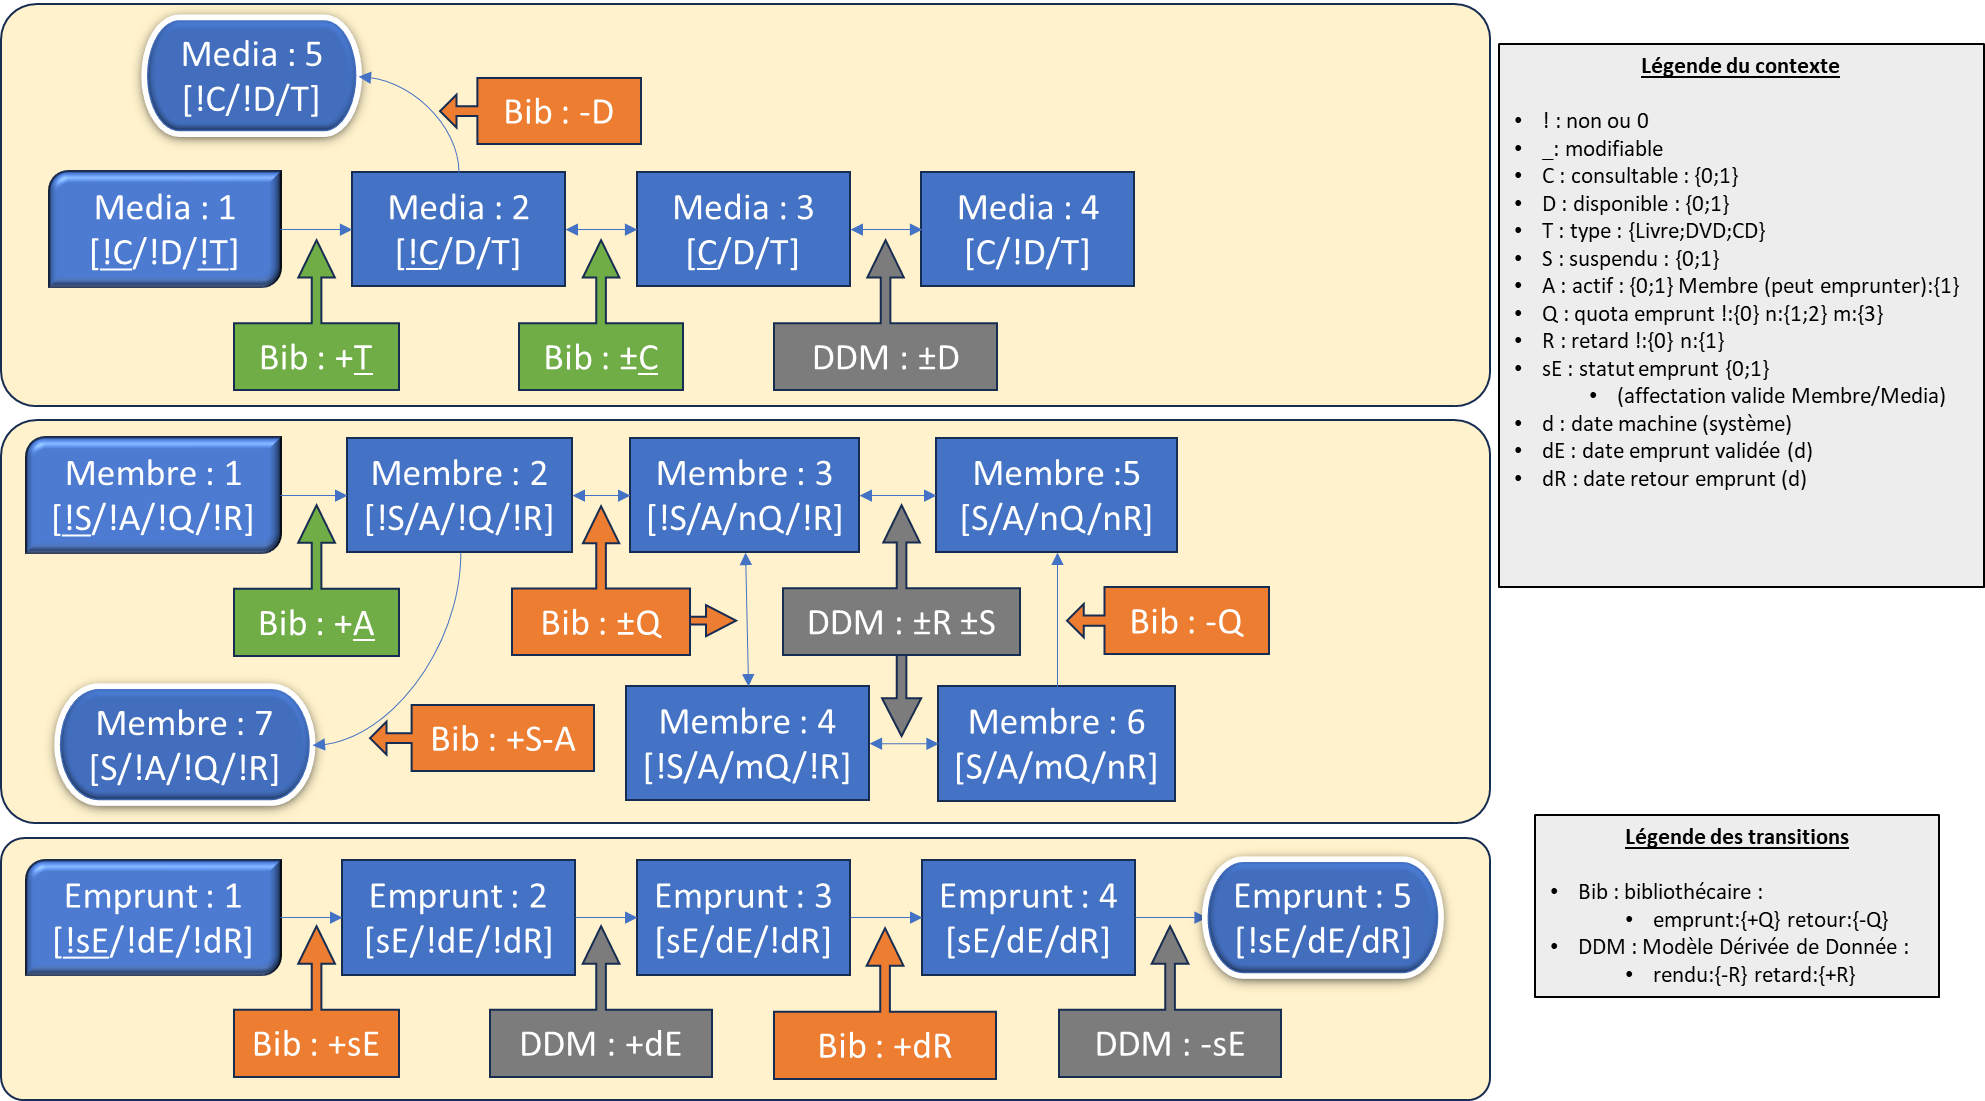
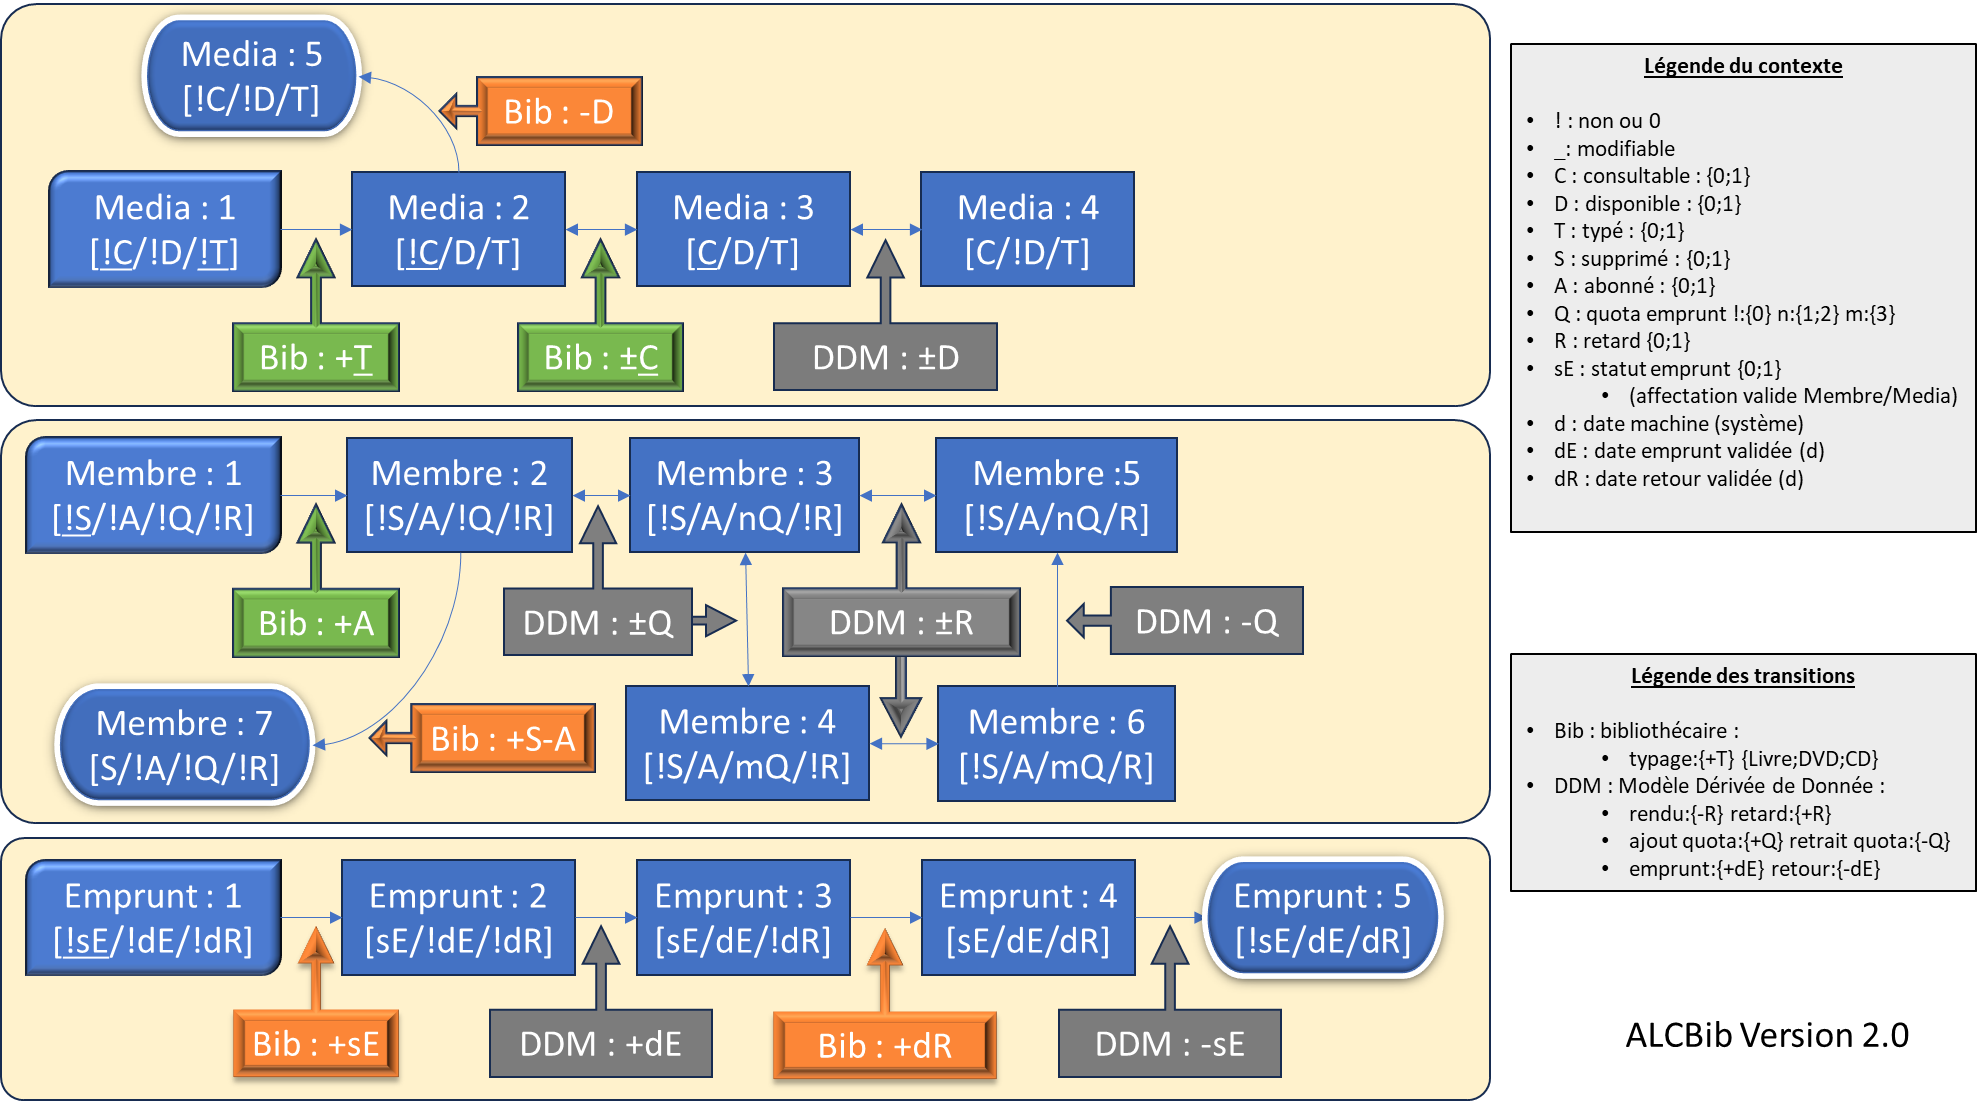
📚 Issue #3 – Étape 6 : Développement fonctionnel initial
feat(docs): (bibliothecaire) (Étape 6h) Définition du cycle de vie métier - figer ALCBib et ses spécialisations.

- Finalisation de Analyse_LifeCycle_Bibliothecaire.md (ALCBib) (H-3).
- Création de Analyse_LifeCycle_Membres.md (ALCMembres) (H-3).
- Création de Analyse_LifeCycle_Emprunts.md (ALCEmprunts) (H-3).
- Alignement des DDM et transitions métier
- Stabilisation du vocabulaire métier (abonné, quota, retard) et du vecteur de contexte.

🔖 Index de révision : H-3
📦 Bloc 3 – Bibliothécaire : documentation métier figée

diff --git a/docs/developpement/issue3/task6/Analyse_LifeCycle_Bibliothecaire.md b/docs/developpement/issue3/task6/Analyse_LifeCycle_Bibliothecaire.md
@@ -1,7 +1,7 @@
 # 🔄 Analyse du cycle de vie métier – Profil Bibliothécaire
 
 📁 `/docs/fonctionnel/Analyse_LifeCycle_Bibliothecaire.md`  
-📌 Version : index H-1  
+📌 Version : index H-3  
 🧩 Sujet : synthèse des états métier et des interactions entre les entités `Media`, `Membre`, et `Emprunt` dans le 
 cadre du profil Bibliothécaire.
 
@@ -17,7 +17,7 @@ cadre du profil Bibliothécaire.
    - [3.3 Emprunt](#33-emprunt)  
 4. [Typologie des transitions](#4-typologie-des-transitions)  
 5. [Interactions entre entités](#5-interactions-entre-entités)  
-6. [Règles DDM (Modèle Dérivé des Données)](#6-règles-ddm-modèle-dérivé-des-données)  
+6. [Règles DDM – Cycle métier du profil Bibliothécaire](#6-règles-ddm--cycle-métier-du-profil-bibliothécaire)  
 7. [Références croisées](#7-références-croisées)  
 
 ---
@@ -70,13 +70,16 @@ Elles présentent :
 La recherche de la cohérence du cycle de vie de chaque entité s'est traduite par l'identification d'une représentation 
 simplifiée dans un tableau spécifique à chaque entité avec sa situation amont et aval de chaque état.
 
-Pour l'entité Media :
+**Pour l'entité Media :**
+
 ![img.png](img_LifeCycle_TableauMedia.png)
 
-Pour l'entité Membre
+**Pour l'entité Membre :**
+
 ![img.png](img_LifeCycle_tableauMembre.png)
 
-Pour l'entité Emprunt
+**Pour l'entité Emprunt :**
+
 ![img.png](img_LifeCycle_TableauEmprunt.png)
 
 ---
@@ -85,33 +88,41 @@ Pour l'entité Emprunt
 
 ### 3.1 Media
 
-| Composante | Signification métier                     | Type       |
-|------------|------------------------------------------|------------|
-| `C`        | consultable (`True` / `False`)           | booléen    |
-| `D`        | disponible (`True` / `False`)            | booléen    |
-| `T`        | typage réel (`Livre`, `Dvd`, `Cd`, etc.) | catégoriel |
+| Composante | Signification métier | Type    | Valeurs typiques |
+|------------|----------------------|---------|-----------------|
+| `C`        | consultable          | booléen | `!C`, `C`       |
+| `D`        | disponible           | booléen | `!D`, `D`       |
+| `T`        | typé                 | booléen | `!T`, `T`       |
+
+> 🔸 `!C` et `!D` indiquent un état non consultable ou non disponible.  
+> 🔸 `!T` désigne un média non typé (état initial ou hors gestion).  
 
 ---
 
 ### 3.2 Membre
 
-| Composante | Signification métier                          | Type       |
-|------------|-----------------------------------------------|------------|
-| `S`        | suspendu (`True` / `False`)                   | booléen    |
-| `A`        | abonné (`True` / `False`)                     | booléen    |
-| `I`        | inscrit à un emprunt en cours                 | booléen    |
-| `Q`        | quota d’emprunt disponible                    | entier     |
-| `R`        | retour enregistré (`True` / `False`)          | booléen    |
+| Composante | Signification métier       | Type       | Valeurs typiques |
+|------------|----------------------------|------------|------------------|
+| `S`        | supprimé (archivé)         | booléen    | `!S`, `S`        |
+| `A`        | abonné                     | booléen    | `!A`, `A`        |
+| `Q`        | quota d’emprunt disponible | entier     | `!Q`, `nQ`, `mQ` |
+| `R`        | retour enregistré          | booléen    | `!R`, `R`        |
+
+> 🔸 `!Q` = quota nul (initial), `nQ` = quota intermédiaire (1 ou 2), `mQ` = quota maximal (3).  
+> 🔸 `!R` = aucun retour enregistré, `R` = retour effectué.  
 
 ---
 
 ### 3.3 Emprunt
 
-| Composante | Signification métier                       | Type           | Source |
-|------------|--------------------------------------------|----------------|--------|
-| `sE`       | statut d’emprunt valide (`True` / `False`) | booléen dérivé | DDM    |
-| `dE`       | date d’emprunt valide (`True` / `False`)   | booléen dérivé | DDM    |
-| `dR`       | date de retour valide (`True` / `False`)   | booléen dérivé | DDM    |
+| Composante | Signification métier                       | Type           | Valeurs typiques |
+|------------|--------------------------------------------|----------------|------------------|
+| `sE`       | statut d’emprunt valide                    | booléen dérivé | `!sE`, `sE`      |
+| `dE`       | date d’emprunt valide                      | booléen dérivé | `!dE`, `dE`      |
+| `dR`       | date de retour valide                      | booléen dérivé | `!dR`, `dR`      |
+
+> 🔸 Ces valeurs sont dérivées automatiquement par le `DDM` selon les règles métier.  
+> 🔸 Elles ne sont pas saisies, mais calculées à partir du contexte `Media` et `Membre`.  
 
 ---
 
@@ -130,37 +141,69 @@ Pour l'entité Emprunt
 ### 5.1 Media → Emprunt
 
 - Un média doit être `consultable=True` et `disponible=True` pour être emprunté.
-- La transition `EmpruntCreateView` vérifie ces conditions via `sE`.
+- Les transitions d'un emprunt évoluent séquentiellement sans intervention directe de l'utilisateur.
 
 ### 5.2 Emprunt → Membre
 
-- La création d’un emprunt modifie le vecteur `[I/Q]` du membre.
-- Le retour d’un emprunt modifie `R`, et peut lever une suspension (`S=False`).
+- La création d’un emprunt modifie le vecteur `[Q/R]` du membre.
+- Le retour d’un emprunt modifie `Q`, et peut lever une suspension (`R`).
 
 ### 5.3 Membre → Media
 
-- Un membre suspendu ne peut pas emprunter → bloque la transition `T:3-4` (emprunt).
-- Le retour d’un emprunt peut rendre le média `disponible=True` via `T:4-3`.
+- Un membre suspendu ne peut pas emprunter → bloque la transition.
+- Le retour d’un emprunt peut rendre le média `D` et peut débloquer un membre en retard `R`.
 
 ---
 
-## 6. Règles DDM (Modèle Dérivé des Données)
+## 6. Règles DDM – Cycle métier du profil Bibliothécaire
 
-| Règle ID | Condition déclencheuse                         | Action métier déclenchée   |
-|----------|------------------------------------------------|----------------------------|
-| DDM-01   | `dR > date_retour_prevue`                      | `statut_emprunt = RETARD`  |
-| DDM-02   | `statut_emprunt = RETARD`                      | `membre.suspendu = True`   |
-| DDM-03   | `membre.retard_en_cours = False`               | `membre.suspendu = False`  |
-| DDM-04   | `media.consultable = False`                    | `media.disponible = False` |
-| DDM-05   | `media.disponible = False` and `emprunt.rendu` | `media.disponible = True`  |
+Ce tableau présente les règles de dérivation automatique (DDM) déclenchées par les actions du profil Bibliothécaire ou 
+par le système. Chaque règle modifie une ou plusieurs composantes du vecteur de contexte d’une entité (`Media`, `Membre`, `Emprunt`).
+
+| ID DDM | Action déclencheuse (métier)    | Entité  | Condition métier simplifiée          | Effet sur le vecteur de contexte                          |
+|--------|---------------------------------|---------|--------------------------------------|-----------------------------------------------------------|
+| DDM_01 | Retrait d’un média              | Media   | Média typé consultable et disponible | `Disponible -> !D` → Média non disponible                 |
+| DDM_02 | Création d’un emprunt           | Membre  | Emprunt du Média                     | `Disponible -> !D` → Média non disponible                 |
+| DDM_03 | Retour d’un emprunt             | Membre  | Retour en cours                      | `Disponible -> D` → Média disponible                      |
+| DDM_04 | Création d’un emprunt           | Membre  | Emprunt défini                       | `Quota -> nQ` ou `Q -> mQ` → quota actualisé              |
+| DDM_05 | Retour d’un emprunt             | Membre  | Emprunt rendu défini                 | `Quota -> nQ` ou `Q -> mQ` → quota actualisé              |
+| DDM_06 | Activation système quotidienne  | Membre  | Retard constaté sur emprunt en cours | `Retard -> R` → retard constaté                           |
+| DDM_07 | Retour enregistré               | Membre  | Aucun retard en cours                | `Retard -> !R` → membre débloqué                          |
+| DDM_08 | Suppression d’un membre         | Membre  | Action de suppression validée        | `Supprimé -> !S`, `Actif -> !A` → membre retiré (archivé) |
+| DDM_09 | Création d’un emprunt           | Emprunt | Membre et média éligibles            | `statut Emprunt -> sE` → emprunt activé                   |
+| DDM_10 | Validation de la date d’emprunt | Emprunt | Emprunt activé                       | `date Emprunt -> dE` → date enregistrée                   |
+| DDM_11 | Enregistrement du retour        | Emprunt | retour d'emprunt activé              | `date Retour -> dR` → date de retour enregistrée          |
+| DDM_12 | Archivage de l’emprunt          | Emprunt | Retour effectué                      | `statut EmpruntE -> !sE` → emprunt terminé                |
+
+> Les règles s'appuient sur un vecteur de contexte unique à dix composantes : 
+> - Consultable : {C ; !C}
+> - Disponible : {D ; !D}
+> - Typé : {T ; !T}
+> - Supprimé : {S ; !S}
+> - Abonné : {A ; !A}
+> - Quota : {!Q ; nQ ; mQ}
+> - Retard : {R ; !R}
+> - statut Emprunt : {sE ; !sE}
+> - date Emprunt : {dE ; !dE}
+> - date retour : {dR ; !dR}.
+> 
+> Les symboles `!`, `n`, `m` sont utilisés pour exprimer les valeurs logiques ou bornées des vecteurs de contexte.  
+
+| Action métier déclenchée    | Origine     | DDM déclenchées (enchaînement)             |
+|-----------------------------|-------------|--------------------------------------------|
+| 📕 Retirer un média         | Utilisateur | DDM_01                                     |
+| 👤 Supprimer un membre      | Utilisateur | DDM_08                                     |
+| 📗 Créer un emprunt         | Utilisateur | DDM_09 → DDM_10 → DDM_04 → DDM_02          |
+| 📘 Rentrer un emprunt       | Utilisateur | DDM_11 → DDM_12 → DDM_05 → DDM_03 → DDM_07 |
+| ⏰ Actualisation quotidienne | Système     | DDM_06                                     |
 
 ---
 
 ## 7. Références croisées
 
 - [`Analyse_LifeCycle_Medias.md`](Analyse_LifeCycle_Medias.md)
-- [`Analyse_LifeCycle_Membres.md`](Analyse_LifeCycle_Membres.md)
-- [`Analyse_LifeCycle_Emprunts.md`](Analyse_LifeCycle_Emprunts.md)
+- [`Analyse_LifeCycle_Membres.md`](Analyse_LifeCycle_Membres.md) **à créer**
+- [`Analyse_LifeCycle_Emprunts.md`](Analyse_LifeCycle_Emprunts.md) **à créer**
 - [`Analyse_Fonctionnalites_Bibliothecaire.md`](Analyse_Fonctionnalites_Bibliothecaire.md)
 - [`tests-plan.md`](tests-plan.md)
 

diff --git a/docs/developpement/issue3/task6/Analyse_LifeCycle_Membres.md b/docs/developpement/issue3/task6/Analyse_LifeCycle_Membres.md
@@ -1,0 +1,78 @@
+# 🔄 Analyse du cycle de vie métier – Entité Membre
+
+📁 `/docs/fonctionnel/Analyse_LifeCycle_Membres.md`  
+📌 Version : index H-3  
+🧩 Sujet : formalisation des états métier et transitions de l’entité `Membre` dans le cadre du profil Bibliothécaire.
+
+---
+
+## 🧭 Sommaire
+
+1. [Objectif du document](#1-objectif-du-document)  
+2. [Vecteur de contexte – Membre](#2-vecteur-de-contexte--membre)
+3. [États métier](#3-états-métier)
+4. [Transitions typées](#4-transitions-typées)
+5. [Règles DDM spécifiques](#5-règles-ddm-spécifiques)
+6. [Références croisées](#6-références-croisées)
+
+---
+
+## 1. Objectif du document
+
+Ce document détaille les états successifs d’un `Membre`, les transitions déclenchées par les actions métier, et les 
+règles DDM associées. Il complète le document transversal [`Analyse_LifeCycle_Bibliothecaire.md`](Analyse_LifeCycle_Bibliothecaire.md).
+
+---
+
+## 2. Vecteur de contexte – Membre
+
+| Composante | Signification métier       | Type    | Valeurs typiques         |
+|------------|----------------------------|---------|--------------------------|
+| `S`        | supprimé (archivé)         | booléen | `!S`, `S`                |
+| `A`        | abonné                     | booléen | `!A`, `A`                |
+| `Q`        | quota d’emprunt disponible | entier  | `!Q`, `nQ`, `mQ`         |
+| `R`        | retard constaté            | booléen | `!R`, `R`                |
+
+> 🔸 Chaque état métier est défini par une combinaison unique de ces quatre composantes.
+
+---
+
+## 3. États métier
+
+| État     | Contexte      | Signification métier                          |
+|----------|---------------|-----------------------------------------------|
+| Membre:1 | `!S/!A/!Q/!R` | Membre créé – non activé                      |
+| Membre:2 | `!S/A/!Q/!R`  | Membre abonné – aucun emprunt                 |
+| Membre:3 | `!S/A/nQ/!R`  | Membre abonné – emprunts en cours sans retard |
+| Membre:4 | `!S/A/mQ/!R`  | Membre abonné – quota maximal atteint         |
+| Membre:5 | `!S/A/nQ/R`   | Membre abonné – emprunts en cours avec retard |
+| Membre:6 | `!S/A/mQ/R`   | Membre abonné – quota max avec retard         |
+| Membre:7 | `S/!A/!Q/!R`  | Membre supprimé – aucun emprunt               |
+
+---
+
+## 4. Transitions typées
+
+| Transition  | Déclencheur     | Effet sur le vecteur    |
+|-------------|-----------------|-------------------------|
+| `Bib: +A`   | Fonction métier | `A = True`              |
+| `DDM: ±Q`   | Dérivation      | `Q = nQ` ou `mQ`        |
+| `DDM: ±R`   | Dérivation      | `R = True` ou `False`   |
+| `Bib: +S-A` | Fonction métier | `S = True`, `A = False` |
+
+---
+
+## 5. Règles DDM spécifiques
+
+- `DDM_04` : augmentation du quota après emprunt
+- `DDM_05` : diminution du quota après retour
+- `DDM_06` : activation du retard (système)
+- `DDM_07` : levée du retard
+- `DDM_08` : suppression du membre
+
+---
+
+## 6. Références croisées
+
+- [`Analyse_LifeCycle_Bibliothecaire.md`](Analyse_LifeCycle_Bibliothecaire.md)
+- [`Analyse_LifeCycle_Emprunts.md`](Analyse_LifeCycle_Emprunts.md)

diff --git a/docs/developpement/issue3/task6/Analyse_LifeCycle_Emprunts.md b/docs/developpement/issue3/task6/Analyse_LifeCycle_Emprunts.md
@@ -1,0 +1,72 @@
+# 🔄 Analyse du cycle de vie métier – Entité Emprunt
+
+📁 `/docs/fonctionnel/Analyse_LifeCycle_Emprunts.md`  
+📌 Version : index H-3  
+🧩 Sujet : formalisation des états métier et transitions de l’entité `Emprunt` dans le cadre du profil Bibliothécaire.
+
+---
+
+## 🧭 Sommaire
+
+1. [Objectif du document](#1-objectif-du-document)  
+2. [Vecteur de contexte – Emprunt](#2-vecteur-de-contexte--emprunt)
+3. [États métier](#3-états-métier)
+4. [Transitions typées](#4-transitions-typées)
+5. [Règles DDM spécifiques](#5-règles-ddm-spécifiques)
+6. [Références croisées](#6-références-croisées)
+
+---
+
+## 1. Objectif du document
+
+Ce document décrit les états successifs d’un `Emprunt`, les transitions déclenchées par les actions métier, et les 
+règles DDM associées. Il complète le document transversal [`Analyse_LifeCycle_Bibliothecaire.md`](Analyse_LifeCycle_Bibliothecaire.md).
+
+---
+
+## 2. Vecteur de contexte – Emprunt
+
+| Composante | Signification métier         | Type           | Valeurs typiques |
+|------------|------------------------------|----------------|------------------|
+| `sE`       | statut d’emprunt             | booléen dérivé | `!sE`, `sE`      |
+| `dE`       | date d’emprunt enregistrée   | booléen dérivé | `!dE`, `dE`      |
+| `dR`       | date de retour enregistrée   | booléen dérivé | `!dR`, `dR`      |
+
+---
+
+## 3. États métier
+
+| État        | Contexte         | Signification métier             |
+|-------------|------------------|----------------------------------|
+| Emprunt:1   | `!sE/!dE/!dR`    | Emprunt créé – affectable        |
+| Emprunt:2   | `sE/!dE/!dR`     | Emprunt demandé                  |
+| Emprunt:3   | `sE/dE/!dR`      | Emprunt validé                   |
+| Emprunt:4   | `sE/dE/dR`       | Emprunt rendu                    |
+| Emprunt:5   | `!sE/dE/dR`      | Emprunt terminé (archivé)        |
+
+---
+
+## 4. Transitions typées
+
+| Transition        | Déclencheur     | Effet sur le vecteur |
+|-------------------|-----------------|----------------------|
+| `Bib: +sE`        | Fonction métier | `sE = True`          |
+| `DDM: +dE`        | Dérivation      | `dE = True`          |
+| `Bib: +dR`        | Fonction métier | `dR = True`          |
+| `DDM: -sE`        | Dérivation      | `sE = False`         |
+
+---
+
+## 5. Règles DDM spécifiques
+
+- `DDM_09` : activation de l’emprunt
+- `DDM_10` : validation de la date d’emprunt
+- `DDM_11` : enregistrement du retour
+- `DDM_12` : archivage de l’emprunt
+
+---
+
+## 6. Références croisées
+
+- [`Analyse_LifeCycle_Bibliothecaire.md`](Analyse_LifeCycle_Bibliothecaire.md)
+- [`Analyse_LifeCycle_Membres.md`](Analyse_LifeCycle_Membres.md)
